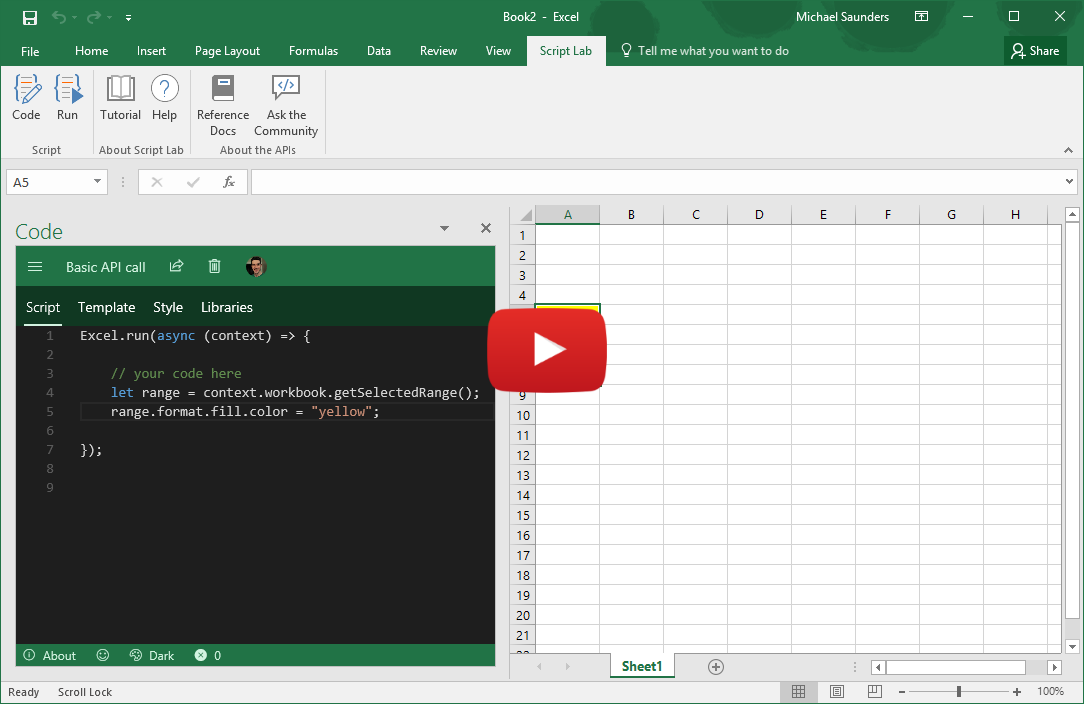
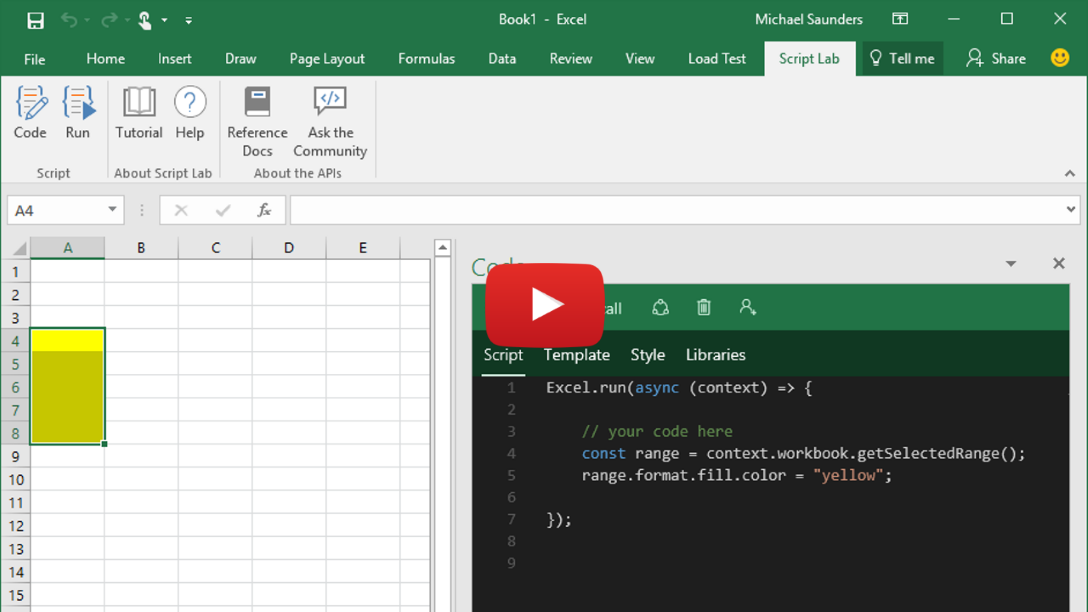
added newest video link

diff --git a/README.md b/README.md
@@ -5,7 +5,7 @@ Experiment with the Office JavaScript API without ever leaving Excel, Word, or P
 
 ## Topics
 * [What is Script Lab?](README.md#what-is)
-* [Getting started](README.md/#get-started)
+* [Get started](README.md/#get-started)
 * [Import someone else's snippet, or export your own](README.md#import)
 * [Report a bug, or suggest a feature](README.md#report-bug)
 * [Contribute to Script Lab](README.md#contribute)
@@ -31,6 +31,8 @@ You can [install Script Lab right now for free from the Office Store](https://st
 
 Script Lab is a Microsoft Garage project that began at a hackathon. You can read our story on the [Garage website](https://www.microsoft.com/en-us/garage/project-details.aspx?project=script-lab)
 
+Here's a 1-minute teaser video to give you a taste:
+
 [![Script Lab teaser video](.github/images/screenshot-wide-youtube.png "Script Lab teaser video")](https://aka.ms/scriptlabvideo)
 
 <a id="get-started"></a>
@@ -39,6 +41,10 @@ Script Lab is a Microsoft Garage project that began at a hackathon. You can read
 The easiest way to try Script Lab is with the Tutorial file for Excel that walks you through the tool in a few steps. You can get it here on GitHub: [script-lab-tutorial.xlsx](https://github.com/OfficeDev/script-lab/blob/master/src/client/assets/documents/script-lab-tutorial.xlsx)
 
 Alternatively, you can start from scratch and [install Script Lab from the Store](https://store.office.com/app.aspx?assetid=WA104380862).
+
+This 10-minute demo explains how to use the main features:
+
+[![Michael Saunders demos Script Lab](.github/images/demoscreenshot-youtube.png "Script Lab teaser video")](https://youtu.be/V85_97G7VA4)
 
 <a id="import"></a>
 ## Import someone else's snippet, or export your own
